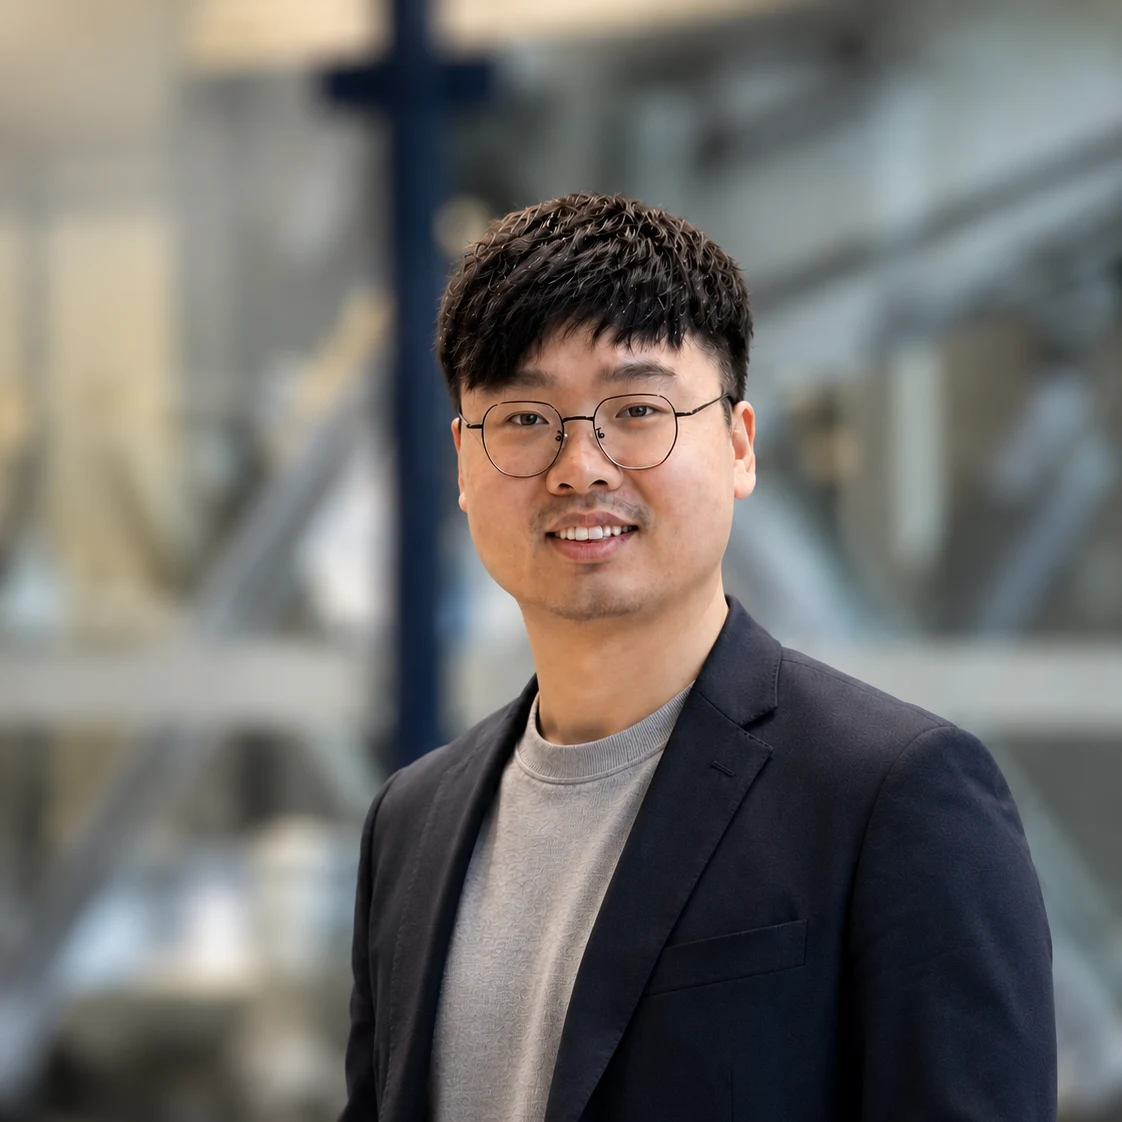
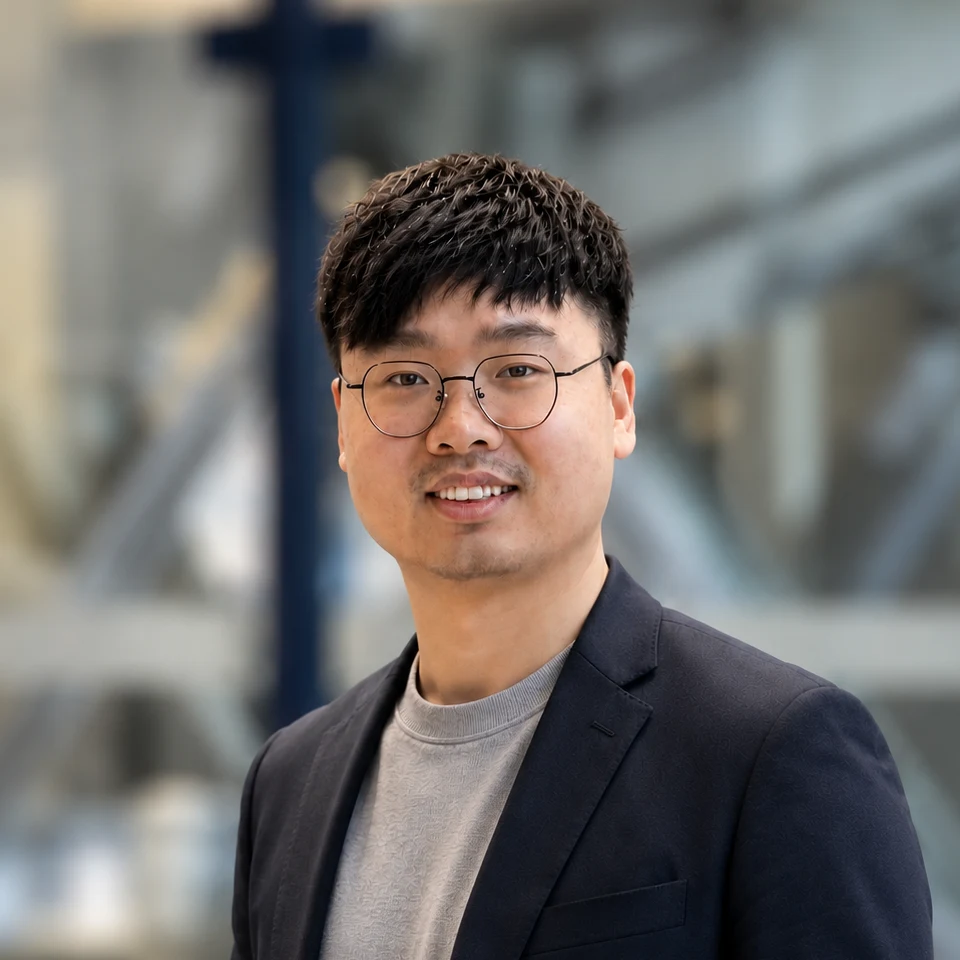
Refine research profile and voice

diff --git a/src/data/earlier-work.ts b/src/data/earlier-work.ts
@@ -19,7 +19,7 @@ export const earlierWork = [
     summary:
       "A quiet, long-endurance fixed-wing platform developed for ecological monitoring in high-altitude regions, including field testing in Tibet. The aircraft combined an albatross-inspired high-aspect-ratio configuration, solar power, a feather-inspired morphing tail, and early formation-flight experiments.",
     role:
-      "I contributed to aerodynamic, structural, and control-system development; designed the morphing tail; developed PX4 flight-control functions; and served as one of the team pilots across more than 50 flight tests.",
+      "Liming contributed to aerodynamic, structural, and control-system development; designed the morphing tail; developed PX4 flight-control functions; and served as one of the team pilots across more than 50 flight tests.",
     highlights: [
       "3.49 m wingspan and 3.8 kg aircraft mass",
       "Lift-to-drag ratio of 17 and theoretical solar endurance of 18 hours",
@@ -44,7 +44,7 @@ export const earlierWork = [
     summary:
       "A conceptual four-seat urban aircraft combining tilting propulsion for vertical take-off and landing with blown-wing flow control. The design explored whether active flow control could reduce wing area and ground footprint while retaining useful lift and payload capability.",
     role:
-      "I worked on the aerodynamic design, dynamic modelling and analysis, and control-system concept, including control allocation for the vector-jet system.",
+      "Liming worked on the aerodynamic design, dynamic modelling and analysis, and control-system concept, including control allocation for the vector-jet system.",
     highlights: [
       "Tilting propulsion for vertical take-off and landing",
       "Trailing-edge blowing on the fore and rear wings",
@@ -72,7 +72,7 @@ export const earlierWork = [
     summary:
       "A hand-launched fixed-wing aircraft designed to fit with its mission equipment inside a compact transport case. Its three-section folding wing and tail layout enabled rapid deployment while retaining a stable airframe for reconnaissance, target identification, and payload delivery tasks.",
     role:
-      "As one of the principal designers, I worked across aerodynamic and structural design, fabrication, flight-control integration, the retractable camera platform, and extensive flight testing.",
+      "As one of the principal designers, Liming worked across aerodynamic and structural design, fabrication, flight-control integration, the retractable camera platform, and extensive flight testing.",
     highlights: [
       "Reliable unfolding in less than 10 seconds",
       "FPV reconnaissance and real-time image transmission",
@@ -100,7 +100,7 @@ export const earlierWork = [
     summary:
       "A cargo aircraft developed around an extreme mass-efficiency challenge: the airframe and onboard systems were limited to 1 kg, while take-off had to be completed within 25 m. Iterative structural and propulsion testing produced a platform capable of lifting a 6.4 kg payload.",
     role:
-      "I worked on lightweight structural design, material selection, propulsion testing, PX4 data collection, and flight-based performance estimation across several design iterations.",
+      "Liming worked on lightweight structural design, material selection, propulsion testing, PX4 data collection, and flight-based performance estimation across several design iterations.",
     highlights: [
       "1 kg aircraft-system mass limit",
       "6.4 kg demonstrated payload",
@@ -128,7 +128,7 @@ export const earlierWork = [
     summary:
       "A 12 m airship developed as a long-endurance alternative to multirotors for aerial imaging and environmental monitoring. A tilting propulsion pod and three tail motors enabled vertical take-off, landing, and low-speed manoeuvring.",
     role:
-      "I helped initiate the student project and worked as a technical designer and builder, taking the vehicle from an early concept to a successfully flown prototype.",
+      "Liming helped initiate the student project and worked as a technical designer and builder, taking the vehicle from an early concept to a successfully flown prototype.",
     highlights: [
       "12 m vehicle length",
       "6 kg equipment payload",
@@ -152,7 +152,7 @@ export const earlierWork = [
     summary:
       "A study of how fixed-wing UAVs can exploit thermal updrafts in three-dimensional turbulent environments. The work combined a more realistic convection model with learning-based attitude control and a modular navigation strategy for moving between, searching for, and remaining inside thermals.",
     role:
-      "I developed the Rayleigh-Bénard thermal environment, evaluated deep reinforcement learning for attitude control, and created the AS-RL navigation strategy that combined learned Soar, Migrate, and Straight behaviours through a behaviour tree.",
+      "Liming developed the Rayleigh-Bénard thermal environment, evaluated deep reinforcement learning for attitude control, and created the AS-RL navigation strategy that combined learned Soar, Migrate, and Straight behaviours through a behaviour tree.",
     highlights: [
       "Rayleigh-Bénard thermal-convection simulation",
       "Model-free attitude control in turbulence using deep reinforcement learning",
@@ -180,7 +180,7 @@ export const earlierWork = [
     summary:
       "A rapid aircraft-development campaign for the international Air Cargo Challenge, where teams designed and built a fixed-wing aircraft around constrained propulsion, take-off distance, payload, and mission requirements. NPU Innovation placed sixth overall.",
     role:
-      "As the team's only undergraduate member, I focused on composite-material fabrication and also contributed to aircraft sizing, design discussions, testing, and preparation for the competition.",
+      "As the team's only undergraduate member, Liming focused on composite-material fabrication and also contributed to aircraft sizing, design discussions, testing, and preparation for the competition.",
     highlights: [
       "Sixth place internationally",
       "Aircraft developed and tested within a short extracurricular design cycle",

diff --git a/src/data/experience.ts b/src/data/experience.ts
@@ -17,7 +17,7 @@ const fieldWork = [
     summary:
       "A TU Delft team project to develop and operate an autonomous drone for a wildlife-themed indoor mission involving navigation, precision landing, object interaction, and visual identification.",
     role:
-      "I contributed to the development, testing, and competition operation of the autonomous aerial system as part of the TU Delft team.",
+      "Liming contributed to the development, testing, and competition operation of the autonomous aerial system as part of the TU Delft team.",
     highlights: [
       "First place in the IMAV 2024 indoor competition",
       "Autonomous navigation through gates and confined spaces",
@@ -47,7 +47,7 @@ const fieldWork = [
     summary:
       "A field-robotics effort using aerial systems to help survey rainforest biodiversity. TU Delft contributed a branch-perching and bioacoustics drone platform to the ETHBiodivX team.",
     role:
-      "I contributed to the development and field testing of TU Delft's branch-perching and bioacoustics drone platform within ETHBiodivX.",
+      "Liming contributed to the development and field testing of TU Delft's branch-perching and bioacoustics drone platform within ETHBiodivX.",
     highlights: [
       "Field deployment in a tropical rainforest environment",
       "Branch perching for persistent bioacoustic monitoring",

diff --git a/src/content/projects/squirrel-inspired-drone.md b/src/content/projects/squirrel-inspired-drone.md
@@ -7,7 +7,7 @@ venue: "Nature Communications"
 status: "Published in 2026"
 homeSummary: "A soft-membrane drone that coordinates its limbs and tail to reshape the entire airframe, tuning stability, agility, and manoeuvrability."
 researchQuestion: "Can a soft-membrane aircraft use coordinated whole-body shape change to move between stable and agile flight, rather than accepting the fixed characteristics of a conventional airframe?"
-approach: "SquirrelDrone combines actively controlled forelimbs, hindlimbs, and tail with passive ribs and a compliant membrane. I characterized the changing surface geometry and aerodynamic forces in the wind tunnel, tested open-loop roll and pitch responses, and validated the system in powered flight."
+approach: "SquirrelDrone combines actively controlled forelimbs, hindlimbs, and tail with passive ribs and a compliant membrane. Liming characterized the changing surface geometry and aerodynamic forces in the wind tunnel, tested open-loop roll and pitch responses, and validated the system in powered flight."
 evidence:
   - "At 12 m/s, aerodynamic loading raised the passive ribs by about 10% to 13% of the local chord."
   - "Below 24° angle of attack, passive rib deformation increased the lift coefficient by more than 0.1 compared with fixed ribs and maintained longitudinal static stability across the tested range."
@@ -59,7 +59,7 @@ media:
 
 **Citation:** Liming Zheng, Alexander van Zuijlen, and Salua Hamaza. "A squirrel-inspired drone with enhanced stability, agility and maneuverability via whole-body morphing." *Nature Communications*, 2026.
 
-This project investigates how gliding mammals, especially flying squirrels, coordinate their limbs, tail, and compliant flight membrane. I translated these biological features into a powered aerial robot whose complete aerodynamic shape can change during flight.
+This project investigates how gliding mammals, especially flying squirrels, coordinate their limbs, tail, and compliant flight membrane. Liming Zheng translated these biological features into a powered aerial robot whose complete aerodynamic shape can change during flight.
 
 ## The research challenge
 
@@ -71,7 +71,7 @@ SquirrelDrone uses five actuators to control its forelimbs, hindlimbs, and tail.
 
 ## Experimental programme
 
-I combined membrane-shape reconstruction, wind-tunnel force and moment measurements, and dynamic tests. Reflective markers recorded how the soft surface changed under aerodynamic loading. Balance measurements quantified lift, drag, and stability derivatives across limb and tail configurations. Tethered open-loop tests then measured roll and pitch responses, followed by pull-up manoeuvres and outdoor flights.
+Liming combined membrane-shape reconstruction, wind-tunnel force and moment measurements, and dynamic tests. Reflective markers recorded how the soft surface changed under aerodynamic loading. Balance measurements quantified lift, drag, and stability derivatives across limb and tail configurations. Tethered open-loop tests then measured roll and pitch responses, followed by pull-up manoeuvres and outdoor flights.
 
 ## Main findings
 

diff --git a/src/content/projects/lemurglider-terminal-braking.md b/src/content/projects/lemurglider-terminal-braking.md
@@ -7,7 +7,7 @@ venue: "Proceedings of the National Academy of Sciences"
 status: "Under review"
 homeSummary: "A colugo-inspired glider that couples head and body morphing to restore pitch stability, increase aerodynamic braking, and prepare for perching."
 researchQuestion: "How can a gliding robot shed energy rapidly for perching while retaining pitch stability as its angle of attack rises and the flow begins to separate?"
-approach: "LemurGlider coordinates head motion with deformation of the anterior membrane and controls the posterior surface independently. I combined steady and prescribed pitch-up wind-tunnel experiments with aerodynamic modelling, flow measurements, and free-flight braking tests."
+approach: "LemurGlider coordinates head motion with deformation of the anterior membrane and controls the posterior surface independently. Liming combined steady and prescribed pitch-up wind-tunnel experiments with aerodynamic modelling, flow measurements, and free-flight braking tests."
 evidence:
   - "Head scheduling shifted maximum lift from 27° to 42° angle of attack and changed the pitching response from destabilizing to restoring."
   - "Posterior actuation set zero-pitch-moment equilibria from 0° to 50° angle of attack. Faster pitch-up increased maximum lift by 41% and raised the drag coefficient at maximum lift from 0.63 to 1.29."
@@ -69,7 +69,7 @@ The platform draws inspiration from the head and anterior membrane of colugos an
 
 ## Experimental programme
 
-I designed and built LemurGlider, then tested it under steady angles of attack and prescribed pitch-up motions in the wind tunnel. Force and moment measurements were paired with aerodynamic modelling and flow diagnostics. Free-flight experiments tested whether the measured mechanisms could produce terminal braking toward targets at different heights.
+Liming Zheng designed and built LemurGlider, then tested it under steady angles of attack and prescribed pitch-up motions in the wind tunnel. Force and moment measurements were paired with aerodynamic modelling and flow diagnostics. Free-flight experiments tested whether the measured mechanisms could produce terminal braking toward targets at different heights.
 
 ## Main findings
 

diff --git a/src/content/projects/albero-agile-landing.md b/src/content/projects/albero-agile-landing.md
@@ -7,7 +7,7 @@ venue: "IEEE Robotics and Automation Letters"
 status: "Published in 2024"
 homeSummary: "An ultra-fast gripper and motion-planning framework that enables a quadrotor to perch dynamically on steep, naturally oriented branches."
 researchQuestion: "Can a conventional quadrotor perch dynamically on steep natural branches when it cannot hold an inclined contact pose long enough for a slow gripper to close?"
-approach: "ALBERO combines an actively triggered bistable spring-steel gripper with trajectory planning for branch contact. I built grippers for two vehicle scales, characterized closure and load capacity, integrated the hardware with a quadrotor, and tested indoor, outdoor, and rainforest perching."
+approach: "ALBERO combines an actively triggered bistable spring-steel gripper with trajectory planning for branch contact. Liming built grippers for two vehicle scales, characterized closure and load capacity, integrated the hardware with a quadrotor, and tested indoor, outdoor, and rainforest perching."
 evidence:
   - "The large and small grippers completed closure in 67 ms and 42 ms, respectively."
   - "The design scaled from a 0.95 kg quadrotor to a 0.148 kg microdrone; indoor flight tests covered branch inclinations of 0°, 20°, and 40°."
